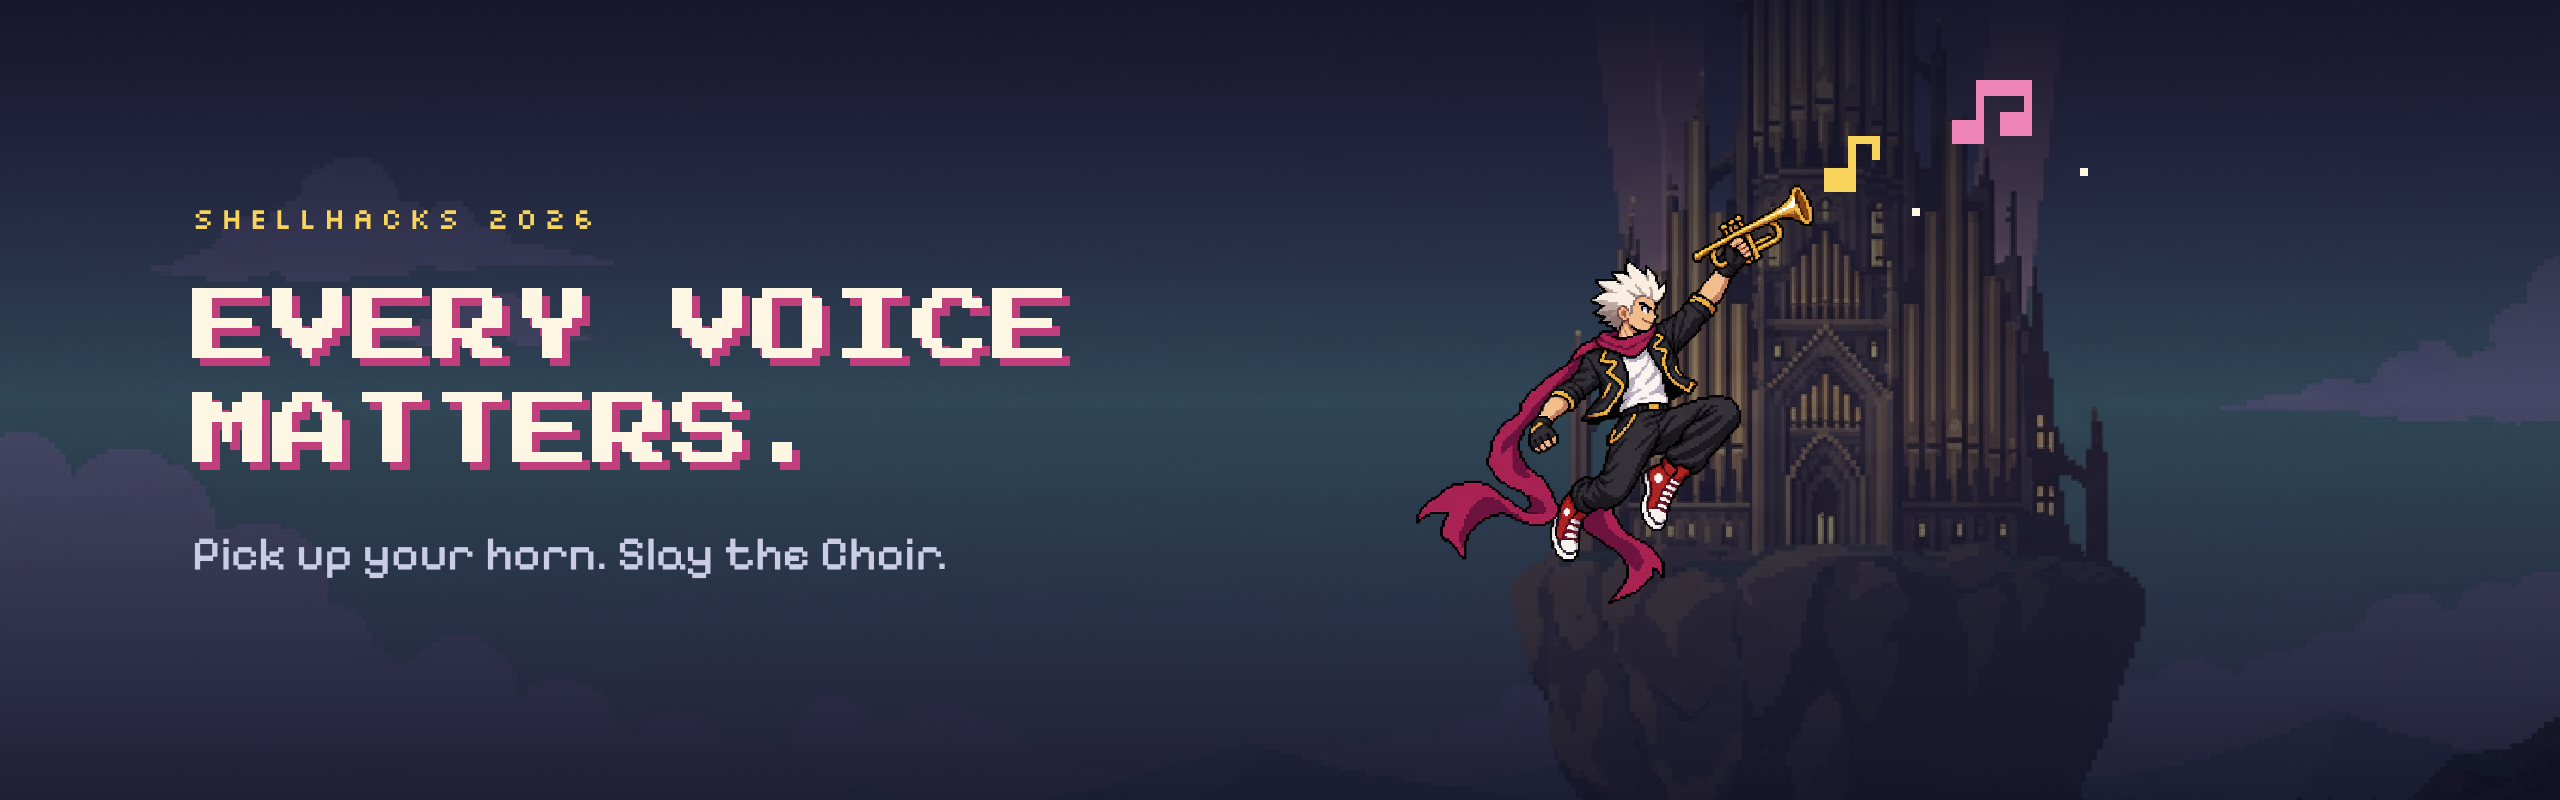
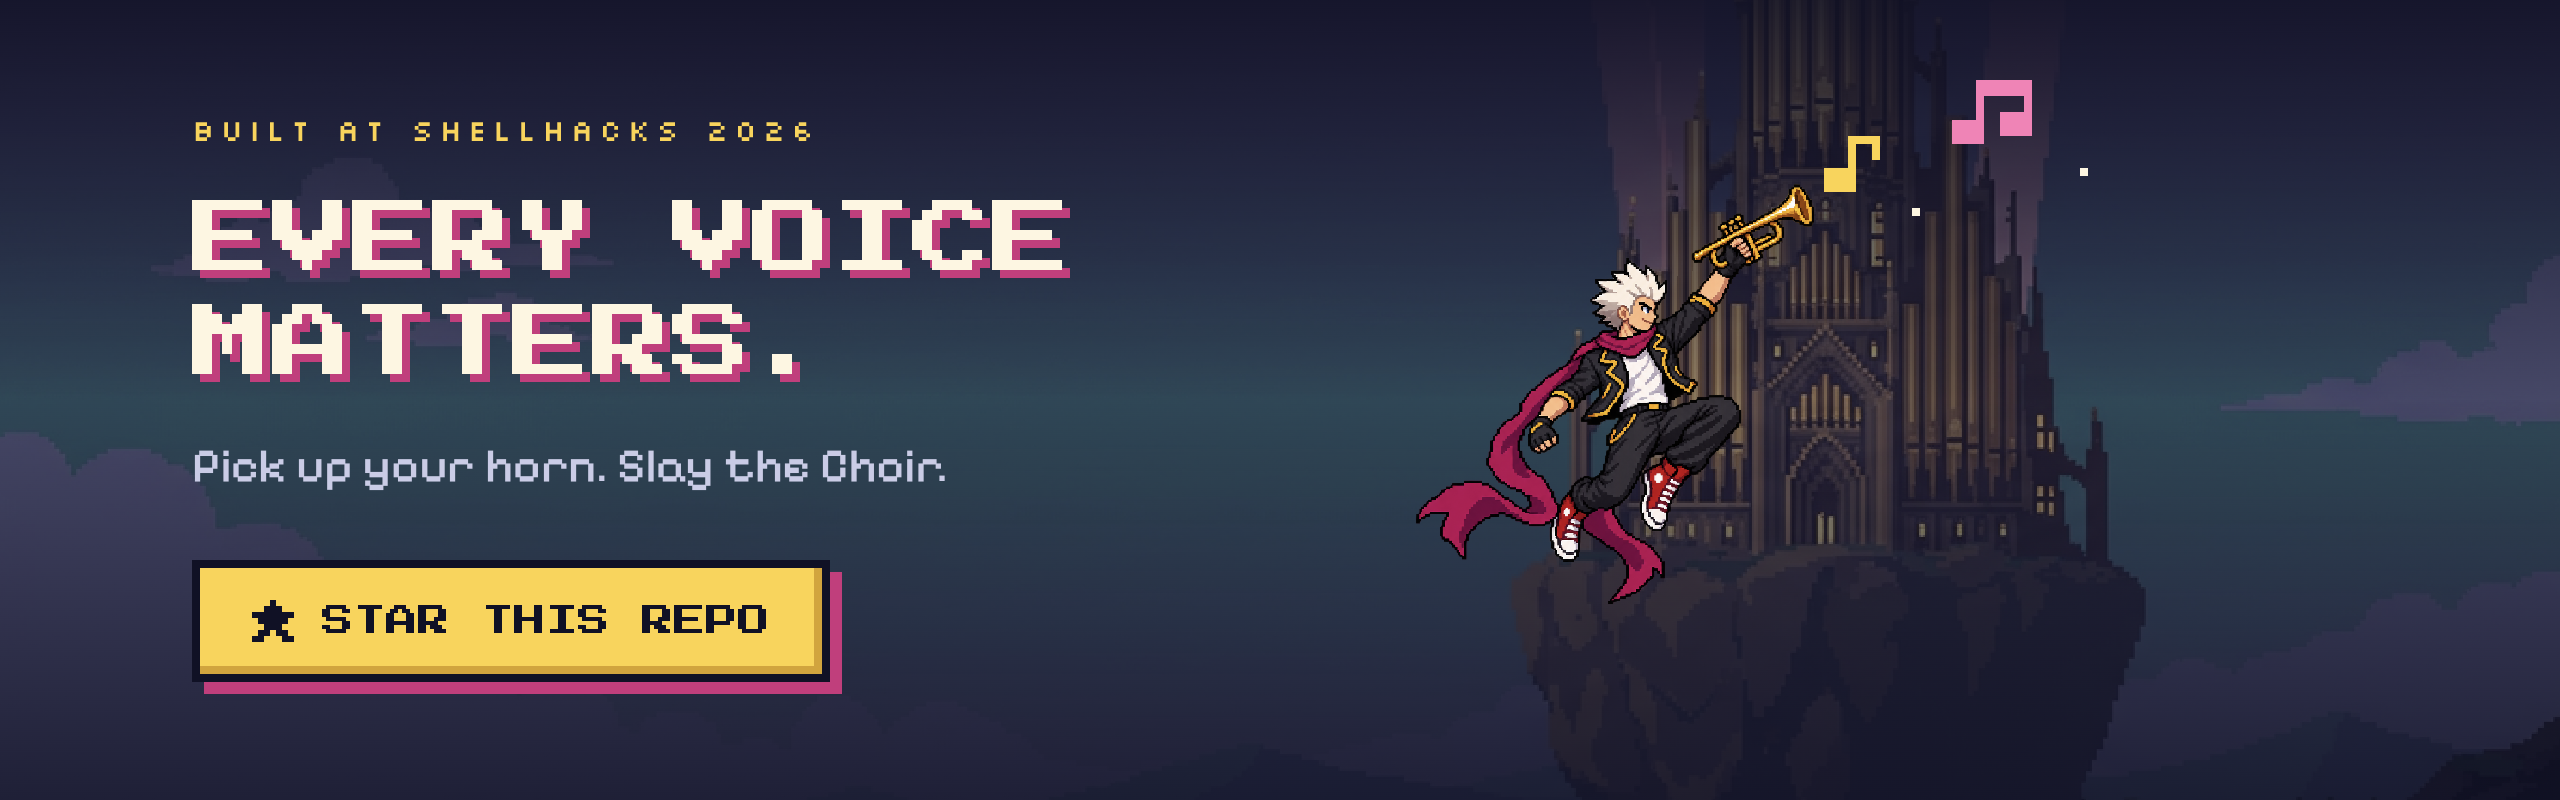
docs: put star this repo in the readme footer

Changed region(s): [[0.0625, 0.25, 0.4375, 0.625], [0.0625, 0.6562, 0.375, 0.875], [0.0625, 0.1562, 0.3125, 0.1875]]

diff --git a/README.md b/README.md
@@ -53,8 +53,8 @@ Chords, rhythms and scales graded live, note by note. Clear 80% and the card hit
 ## &gt;_ Run it locally
 
 ```bash
-git clone https://github.com/GridGxly/Shellhacks2026.git
-cd Shellhacks2026
+git clone https://github.com/GridGxly/SlayTheChoir.git
+cd SlayTheChoir
 npm install
 npm run dev
 ```
@@ -68,7 +68,5 @@ Add `ELEVENLABS_API_KEY` and `MONGODB_URI` to `.env.local` for trash talk and ac
 ---
 
 <div align="center">
-<img src="docs/readme/footer.webp" alt="Every voice matters. Pick up your horn. Slay the Choir." width="100%">
-<br><br>
-<sub>Built at ShellHacks 2026 · <a href="https://github.com/GridGxly/Shellhacks2026">★ Star this repo</a></sub>
+<a href="https://github.com/GridGxly/SlayTheChoir"><img src="docs/readme/footer.webp" alt="Every voice matters. Pick up your horn. Slay the Choir. Star this repo." width="100%"></a>
 </div>
